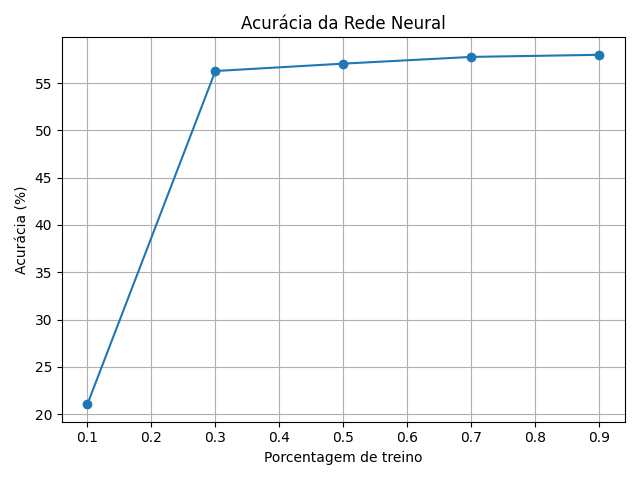
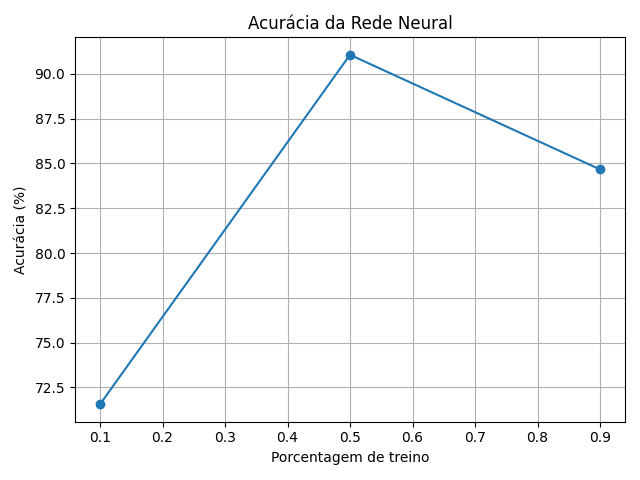
Rede neural com problemas

diff --git a/t2/neural.py b/t2/neural.py
@@ -5,10 +5,12 @@ import pandas as pd
 import matplotlib.pyplot as plt
 from sklearn.preprocessing import OneHotEncoder
 from sklearn.metrics import accuracy_score
+from sklearn.preprocessing import StandardScaler
 
 
 inputSize = 7
 METHOD = 'sigmoid'
+LEARNING_RATE = 0.3
 
 class NeuralNetwork:
     def __init__(self, inputSize=inputSize, numLayers=3, numNeurons=3):
@@ -20,76 +22,94 @@ class NeuralNetwork:
         self.layerOutputs = []
         self.outputLayer = OutputLayer(numNeurons)
 
+    def printWeights(self, titulo="Pesos da rede"):
+        print(f"\n=== {titulo} ===")
+        for l_idx, layer in enumerate(self.layers):
+            print(f"Camada {l_idx}:")
+            for n_idx, neuron in enumerate(layer):
+                print(f"  Neurônio {n_idx}: Pesos = {neuron.weights}, Bias = {neuron.bias}")
+        print("Camada de saída:")
+        for c_idx, weights in enumerate(self.outputLayer.weights):
+            print(f"  Classe {c_idx}: Pesos = {weights}, Bias = {self.outputLayer.biases[c_idx]}")
+
     def createLayers(self):
+        previousSize = self.inputSize
         for i in range(self.numLayers):
             layer = []
             for j in range(self.numNeurons):
-                neuron = Perceptron(self.inputSize)
-                neuron.weights = [random.uniform(-1, 1) for _ in range(self.inputSize)]
+                neuron = Perceptron(previousSize)
+                neuron.weights = [random.uniform(-0.1, 0.1) for _ in range(previousSize)]
                 layer.append(neuron)
             self.layers.append(layer)
+            previousSize = self.numNeurons  # Atualiza para a próxima camada
+        self.outputLayer = OutputLayer(previousSize)  # Corrige tamanho da camada de saída
+
 
     def feedForward(self, inputs):
         if len(inputs) != self.inputSize:
             raise ValueError(f"Tamanho do vetor de entrada ({len(inputs)}) "
                              f"incompatível com inputSize ({self.inputSize})")
 
-        self.layerOutputs = []
+        self.layersOutputs = []
+        i = 0
         for layer in self.layers:
             layerOutputs = []
             for neuron in layer:
-                netInput = neuron.calculateNetInput(inputs)
-                output = neuron.activationFunction(netInput)
+                output = neuron.activationFunction(inputs)
                 layerOutputs.append(output)
-            self.layerOutputs.append(layerOutputs)
+            self.layersOutputs.append(layerOutputs)
             inputs = layerOutputs
+            i += 1
 
-        self.finalOutputs = self.outputLayer.getProbabilites(layerOutputs)
+        self.finalOutputs = self.outputLayer.getProbabilites(inputs)
         return self.finalOutputs
 
     def train(self, inputs, target):
         # Forward pass
         outputs = self.feedForward(inputs)
 
-        # Compute deltas for output layer
-        outputDeltas = self.outputLayer.computeOutputDeltas(outputs, target)
-
         # Update output layer weights
-        self.outputLayer.updateWeights(self.layerOutputs[-1], outputDeltas)
+        self.outputLayer.updateWeights(target)
 
         # Backpropagate through hidden layers
-        nextDeltas = outputDeltas
+        self.deltas = self.outputLayer.deltas
         nextLayer = self.outputLayer
-        for l in reversed(range(len(self.layers))):
-            currentLayer = self.layers[l]
-            currentOutputs = self.layerOutputs[l]
+        for i in reversed(range(len(self.layers))):
+            currentLayer = self.layers[i]
+            currentOutputs = self.layersOutputs[i]
             currentDeltas = []
-            for i, neuron in enumerate(currentLayer):
+            for j, neuron in enumerate(currentLayer):
+                # Calcular erro: soma dos deltas da próxima camada * pesos
                 error = 0.0
-                for j in range(len(nextDeltas)):
-                    if isinstance(nextLayer, OutputLayer):
-                        error += nextLayer.weights[j][i] * nextDeltas[j]
-                    else:
-                        error += nextLayer[j].weights[i] * nextDeltas[j]
-                delta = error * currentOutputs[i] * (1 - currentOutputs[i])
-                neuron.updateWeights(inputs if l == 0 else self.layerOutputs[l - 1], delta)
-                currentDeltas.append(delta)
-            nextDeltas = currentDeltas
+                if isinstance(nextLayer, OutputLayer):
+                    for k in range(len(nextLayer.deltas)):
+                        error += nextLayer.weights[j][k] * nextLayer.deltas[k]
+                else:
+                    for k, nextNeuron in enumerate(nextLayer):
+                        error += nextNeuron.weights[j] * nextNeuron.delta
+                
+                # Atualizar pesos e guardar delta
+                neuron.updateWeights(error)
+                currentDeltas.append(neuron.delta)
+            
+            # Atualizar nextLayer e deltas para próxima iteração
             nextLayer = currentLayer
+            self.deltas = currentDeltas
+
+
 
     def predictClass(self, inputsVector):
         inputList = list(inputsVector)
         if len(inputsVector) != self.inputSize:
             raise ValueError(f"NeuralNetwork: Tamanho do vetor de entrada ({len(inputsVector)}) "
                              f"incompatível com inputSize da rede ({self.inputSize})")
-
+        nextinputList = []
         for hiddenLayer in self.layers:
-            nextLayerInputs = []
             for neuron in hiddenLayer:
-                netInput = neuron.calculateNetInput(inputList)
-                output = neuron.activationFunction(netInput)
-                nextLayerInputs.append(output)
-            inputList = nextLayerInputs
+                output = neuron.activationFunction(inputList)
+                nextinputList.append(output)
+            inputList = nextinputList
+            nextinputList = []
 
         if self.outputLayer:
             return self.outputLayer.getPredictedClass(inputList)
@@ -100,9 +120,12 @@ class OutputLayer:
     def __init__(self, inputSize, numClasses=4):
         self.inputSize = inputSize
         self.numClasses = numClasses
-        self.weights = [[random.uniform(-1, 1) for _ in range(inputSize)] for _ in range(numClasses)]
+        self.weights = [[random.uniform(-0.1, 0.1) for _ in range(inputSize)] for _ in range(numClasses)]
         self.biases = [0.0] * numClasses
-        self.learningRate = 0.01
+        self.learningRate = LEARNING_RATE
+        self.lastInput = []
+        self.deltas = []
+        self.lastOutputs = []
 
     def softmax(self, z):
         max_z = max(z)
@@ -111,48 +134,77 @@ class OutputLayer:
         return [val / total for val in exp_values]
 
     def getProbabilites(self, inputs):
+        self.lastInput = inputs
         z = []
         for i in range(self.numClasses):
             weighted_sum = sum(inputs[j] * self.weights[i][j] for j in range(self.inputSize)) + self.biases[i]
             z.append(weighted_sum)
-        return self.softmax(z)
+        self.lastOutputs = self.softmax(z)
+
+        return self.lastOutputs
 
     def getPredictedClass(self, inputs):
         probs = self.getProbabilites(inputs)
         return probs.index(max(probs)) + 1
 
-    def computeOutputDeltas(self, predicted, target):
-        return [predicted[i] - target[i] for i in range(self.numClasses)]
+    def computeOutputDeltas(self, targets):
+        self.deltas = [self.lastOutputs[i] - targets[i] for i in range(self.numClasses)]
 
-    def updateWeights(self, inputs, deltas):
-        for i in range(self.numClasses):
-            for j in range(self.inputSize):
-                self.weights[i][j] -= self.learningRate * deltas[i] * inputs[j]
-            self.biases[i] -= self.learningRate * deltas[i]
+    def updateWeights(self, targets):
+        self.computeOutputDeltas(targets)
+        for class_idx in range(self.numClasses):
+            for i in range(self.inputSize):
+                old = self.weights[class_idx][i]
+                self.weights[class_idx][i] -= self.learningRate * self.deltas[class_idx] * self.lastInput[i]
+                # if old != self.weights[class_idx][i]:
+                #     print(f"Peso [{class_idx}][{i}] alterado: {old:.4f} -> {self.weights[class_idx][i]:.4f}")
+            self.biases[class_idx] -= self.learningRate * self.deltas[class_idx]
+
+
+
 
 class Perceptron:
     def __init__(self, inputSize, method=METHOD):
-        self.weights = [random.uniform(-1, 1) for _ in range(inputSize)]
-        self.bias = 0.0
-        self.learningRate = 0.01
+        self.weights = [random.uniform(-0.1, 0.1) for _ in range(inputSize)]
+        self.bias = random.uniform(-0.1, 0.1)
+        self.learningRate = LEARNING_RATE
         self.inputSize = inputSize
         self.method = method
         self.lastOutput = 0
+        self.lastInputs = []
+        self.delta = 0
+        self.netInput = 0
 
     def calculateNetInput(self, inputsVector):
+        self.lastInputs = inputsVector
         if len(inputsVector) != self.inputSize:
             raise ValueError(f"Tamanho do vetor de entrada ({len(inputsVector)}) "
                              f"incompatível com inputSize ({self.inputSize})")
 
-        netInput = sum(self.weights[i] * inputsVector[i] for i in range(self.inputSize)) + self.bias
-        return netInput
+        self.netInput = sum(self.weights[i] * inputsVector[i] for i in range(self.inputSize)) + self.bias
 
-    def updateWeights(self, inputs, delta):
+
+    def computeDelta(self, error): # VERIFICAR DERIVADAS
+        if self.method == 'sigmoid':
+            # Derivada da sigmoid: output * (1 - output)
+            self.delta = error * self.lastOutput * (1 - self.lastOutput)
+        elif self.method == 'linear':
+            # Derivada da função linear é 1
+            self.delta = error            
+
+    def updateWeights(self, error):
+        self.computeDelta(error)
         for i in range(self.inputSize):
-            self.weights[i] -= self.learningRate * delta * inputs[i]
-        self.bias -= self.learningRate * delta
+            old = self.weights[i]
+            self.weights[i] -= self.learningRate * self.delta * self.lastInputs[i]
+            # if old != self.weights[i]:
+            #     print(f"Peso {i} alterado: {old:.4f} -> {self.weights[i]:.4f}")
+        self.bias -= self.learningRate * self.delta
 
-    def activationFunction(self, x):
+
+    def activationFunction(self, inputsVector):
+        self.calculateNetInput(inputsVector)
+        x = self.netInput
         if self.method == 'sigmoid':
             self.lastOutput = self.sigmoid(x)
         elif self.method == 'linear':
@@ -172,7 +224,7 @@ class Perceptron:
 
 def testar_neural_network(data_path="dataset/treino_sinais_vitais_com_label.csv"):
     data = pd.read_csv(data_path).values
-    training_percentages = [0.1, 0.3, 0.5, 0.7, 0.9]
+    training_percentages = [0.1, 0.5, 0.9]
     
     resultados = []
 
@@ -180,30 +232,37 @@ def testar_neural_network(data_path="dataset/treino_sinais_vitais_com_label.csv"
 
     encoder = OneHotEncoder(sparse_output=False)
     all_labels = data[:, -1].reshape(-1, 1)
-    encoder.fit(all_labels)
+    encoder.fit(all_labels) # 2 -> [0, 1, 0, 0] (transforma as classes em vetores)
 
     for perc in training_percentages:
         treino = data[:int(len(data)*perc)]
         teste = data[int(len(data)*perc):]
-
+        # Separa as entradas e as classificações
         X_train, y_train = treino[:, :-1], treino[:, -1].reshape(-1, 1)
         X_test, y_test = teste[:, :-1], teste[:, -1].reshape(-1, 1)
 
+        scaler = StandardScaler()
+        X_train = scaler.fit_transform(X_train)
+        X_test = scaler.transform(X_test)
+        # Converte as classificações para vetores
         y_train_encoded = encoder.transform(y_train)
         y_test_int = y_test.astype(int).flatten()
 
         # Criar e treinar a rede
-        nn = NeuralNetwork(inputSize=X_train.shape[1], numLayers=1, numNeurons=6)
+        nn = NeuralNetwork(inputSize=X_train.shape[1], numLayers=3, numNeurons=2)
         nn.createLayers()
 
-        for epoch in range(100):  # Pode ajustar o número de épocas
+        # nn.printWeights("Pesos iniciais")
+
+        for epoch in range(100):
             for x, y in zip(X_train, y_train_encoded):
                 nn.train(x, y)
-
+        # nn.printWeights("Pesos finais")
         # Testar
         y_pred = [nn.predictClass(x) for x in X_test]
         acc = accuracy_score(y_test_int, y_pred)
         resultados.append(acc)
+        print(f"Acurácia para {int(perc * 100)}% de treino: {acc * 100:.2f}%")
 
     # Salvar gráfico
     plt.figure()
